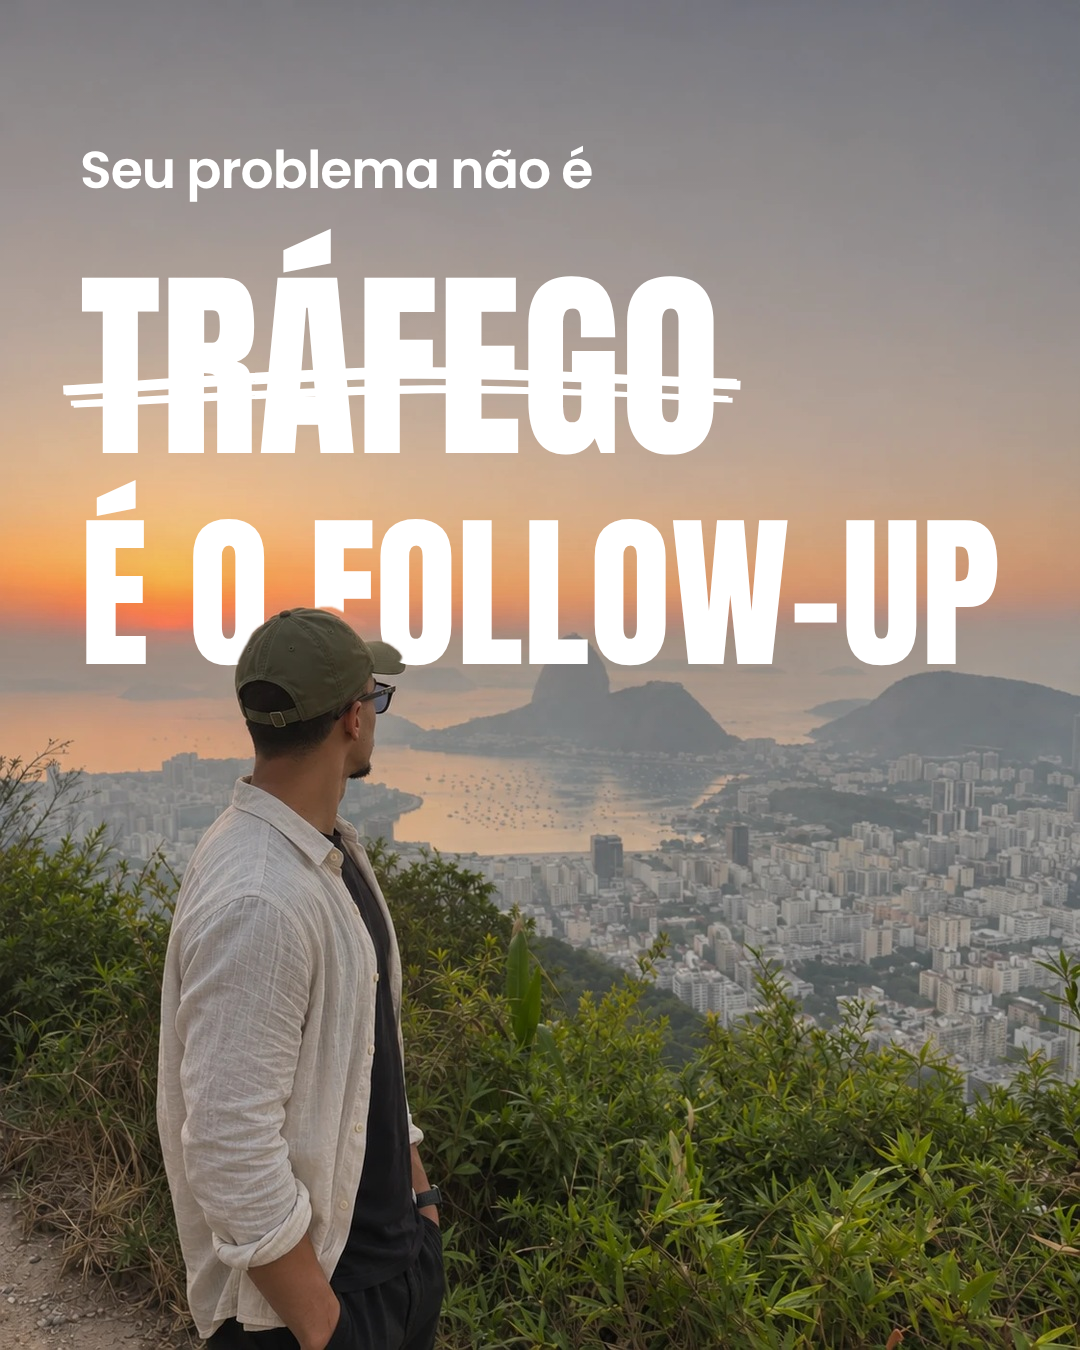
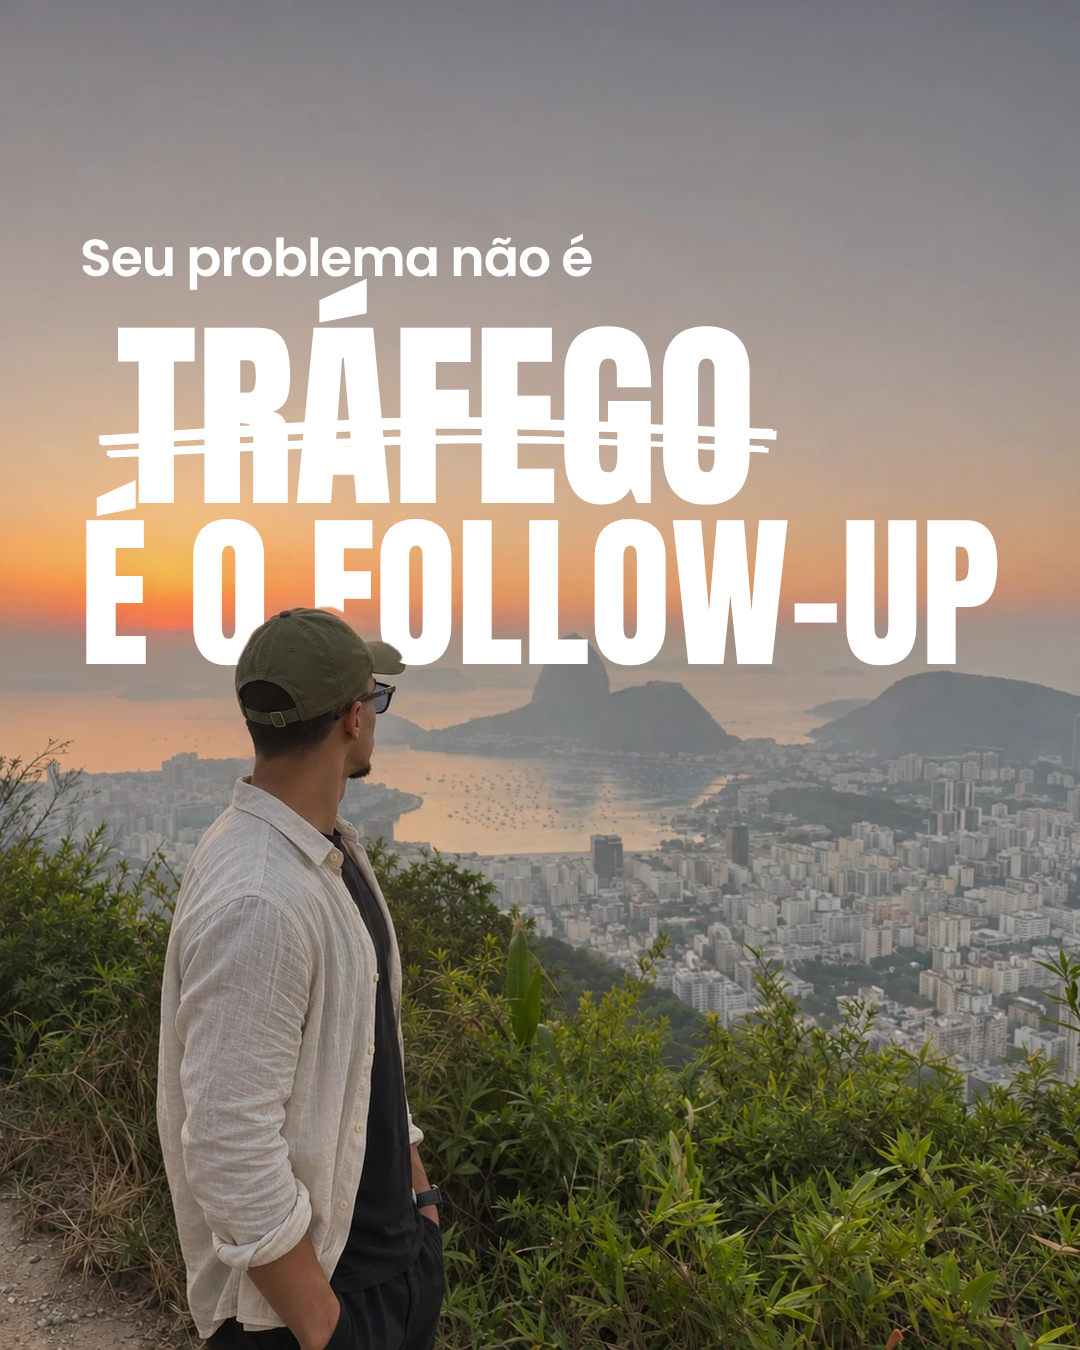
Motor de capa: encaixe das linhas pela forma real das letras (mais junto, sem encostar)
Claude-Session: https://claude.ai/code/session_01CR2zLXebwu2nvAjBiSDjK9

Changed region(s): [[0.0611, 0.0933, 0.7333, 0.3733]]

diff --git a/carrossel/capa-motor.html b/carrossel/capa-motor.html
@@ -19,8 +19,8 @@ html,body{margin:0;background:#000}
    gap = espaço entre a linha e a de baixo. A última linha tem a linha de base em `base`. */
 const LAYOUTS = {
   riscado:   { align:"left",   lines:[
-    {font:"600 52px Poppins", ls:"-.02em", gap:26},
-    {font:"400 230px Anton", fit:640, upper:1, strike:1, gap:24},
+    {font:"600 52px Poppins", ls:"-.02em", gap:16},
+    {font:"400 230px Anton", fit:640, upper:1, strike:1, gap:16},
     {font:"400 300px Anton", fit:920, upper:1} ]},
   padrao:    { align:"center", lines:[
     {font:"500 24px Poppins", ls:".42em", upper:1, gap:30},
@@ -39,9 +39,18 @@ const LAYOUTS = {
 const M = 80; // margem de segurança
 
 function inkW(e){const r=document.createRange();r.selectNodeContents(e);return r.getBoundingClientRect().width}
-function metrics(text, font, stretch){
-  const c=document.createElement("canvas").getContext("2d"); c.font=(stretch?`${stretch==="62%"?"extra-condensed":"normal"} `:"")+font;
-  const m=c.measureText(text||"H"); return {asc:m.actualBoundingBoxAscent, desc:Math.max(0,m.actualBoundingBoxDescent)};
+function profile(text, font, stretch, ls, left){
+  // para cada coluna x (0..1079): quanto a tinta sobe (asc) e desce (desc) a partir da linha de base
+  const fs=parseFloat(font.match(/([\d.]+)px/)[1]), W=1080, H=Math.ceil(fs*2.4), base=Math.round(fs*1.6);
+  const cv=document.createElement("canvas"); cv.width=W; cv.height=H; const c=cv.getContext("2d");
+  c.font=font; if(stretch) try{ c.fontStretch = stretch==="62%"?"extra-condensed":"normal" }catch(e){}
+  if(ls) try{ c.letterSpacing = (/em$/.test(ls)? parseFloat(ls)*fs+"px" : ls) }catch(e){}
+  c.fillStyle="#000"; c.fillText(text,left,base);
+  const d=c.getImageData(0,0,W,H).data, asc=new Array(W).fill(null), desc=new Array(W).fill(null);
+  for(let x=0;x<W;x++){ for(let y=0;y<H;y++) if(d[(y*W+x)*4+3]>60){ asc[x]=base-y; break }
+    for(let y=H-1;y>=0;y--) if(d[(y*W+x)*4+3]>60){ desc[x]=y-base; break } }
+  const vals=a=>a.filter(v=>v!=null);
+  return {asc, desc, maxAsc:Math.max(0,...vals(asc)), maxDesc:Math.max(0,...vals(desc))};
 }
 
 window.loadCapa = async function(spec){
@@ -67,25 +76,46 @@ window.loadCapa = async function(spec){
   await document.fonts.ready; await new Promise(r=>setTimeout(r,250));
   // ajusta larguras
   els.forEach(({d,cfg})=>{ if(cfg.fit){ const fs=parseFloat(getComputedStyle(d).fontSize); d.style.fontSize=fs*cfg.fit/inkW(d)+"px" } });
-  // empilha de baixo para cima a partir da linha de base da última linha
+  // alinhamento horizontal primeiro (o encaixe vertical depende da posição x)
+  els.forEach(({d})=>{ const w=d.getBoundingClientRect().width; d.style.left = align==="center" ? (540-w/2)+"px" : M+"px" });
+  // empilha de baixo para cima: cada linha desce até ficar a `gap` px da linha de baixo no ponto mais próximo (acentos incluídos)
   const placeAt=(d,base)=>{ d.style.top="0px"; const b=d.querySelector(".bl").getBoundingClientRect().top-d.getBoundingClientRect().top; d.style.top=(base-b)+"px" };
   const pos=[]; let below=null;
   for(let i=els.length-1;i>=0;i--){
     const {d,cfg,t}=els[i]; if(cfg.pill) continue;
     const fs=parseFloat(d.style.fontSize||getComputedStyle(d).fontSize);
-    const mt=metrics(t, cfg.font.replace(/\d+px/, fs+"px"), cfg.stretch);
+    const left=d.getBoundingClientRect().left - document.querySelector(".c").getBoundingClientRect().left;
+    const F=cfg.font.replace(/[\d.]+px/, fs+"px");
+    const semAcento=t.normalize("NFD").replace(/[\u0300-\u036f]/g,"");
+    let pr=profile(t,F,cfg.stretch,cfg.ls,left), prB = semAcento===t ? pr : profile(semAcento,F,cfg.stretch,cfg.ls,left);
     let base;
     if(!below) base = spec.base ?? 664;
-    else { const gap = (els[i].cfg.gap ?? 30); base = below.top - gap - mt.desc; }
-    placeAt(d,base); pos[i]={base, top:base-mt.asc, bottom:base+mt.desc};
+    else {
+      const gap=(cfg.gap ?? 14)*(spec.espaco ?? 1), gapA=Math.min(gap,6);
+      const fitBase=(P)=>{ let best=Infinity;
+        for(let x=0;x<1080;x++){ if(P.desc[x]==null) continue;
+          if(below.absTopB[x]!=null) best=Math.min(best, below.absTopB[x]-gap-P.desc[x]);
+          if(below.absTop[x]!=null)  best=Math.min(best, below.absTop[x]-gapA-P.desc[x]); }
+        return best===Infinity ? below.top-gap-P.maxDesc : best };
+      base=fitBase(pr);
+      // encaixe: se um acento da linha de baixo bate na de cima, desloca a de cima até 90px à direita
+      if(align!=="center" && spec.encaixe!==false){
+        let bestDx=0, bestB=base;
+        for(let dx=6; dx<=90; dx+=6){ const P=profile(t,F,cfg.stretch,cfg.ls,left+dx); const b=fitBase(P); if(b>bestB+14){ bestB=b; bestDx=dx } }
+        if(bestDx){ d.style.left=(left+bestDx)+"px"; pr=profile(t,F,cfg.stretch,cfg.ls,left+bestDx); prB = semAcento===t ? pr : profile(semAcento,F,cfg.stretch,cfg.ls,left+bestDx); base=bestB }
+      }
+      if(below.pillGap) base -= below.pillGap;
+    }
+    placeAt(d,base);
+    const absTop=pr.asc.map(v=>v==null?null:base-v), absTopB=prB.asc.map(v=>v==null?null:base-v);
+    pos[i]={base, top:base-pr.maxAsc, bottom:base+pr.maxDesc, absTop, absTopB, pillGap:0};
+    if(i>0 && els[i-1].cfg.pill){ const ph=els[i-1].d.getBoundingClientRect().height; pos[i].pillGap = ph*0.55 }
     below=pos[i];
   }
   // selo: centralizado no vão entre a linha de cima e a de baixo
   els.forEach(({d,cfg},i)=>{ if(!cfg.pill) return;
     const up=pos[i-1], dn=pos[i+1]; const h=d.getBoundingClientRect().height;
     d.style.top=((up.bottom+dn.top)/2-h/2)+"px"; d.style.transform="rotate(-3deg)"; });
-  // alinhamento horizontal
-  els.forEach(({d})=>{ const w=d.getBoundingClientRect().width; d.style.left = align==="center" ? (540-w/2)+"px" : M+"px" });
   // risco à mão
   els.forEach(({d,cfg,t},i)=>{ if(!cfg.strike) return; const r=d.getBoundingClientRect(); const fs=parseFloat(d.style.fontSize);
     const y=pos[i].base-fs*.36, rc=rough.svg(document.getElementById("sv")), sv=document.getElementById("sv");

diff --git a/.claude/skills/carrossel/SKILL.md b/.claude/skills/carrossel/SKILL.md
@@ -22,6 +22,8 @@ Objetivo: máxima qualidade com o mínimo de tokens. **Não leia** `index.html`,
 - Público AAA, minimalista e elegante. Fundo branco na maioria; **1–2 slides** com `"tema":"escuro"` (verde Trives escuro, flat com granulado). Sem neon, sem logo, sem nome no topo, sem rodapé.
 - Fontes: Poppins (texto), Anton/Archivo (capa), Caveat (letra de mão). Margens 128 px laterais / 150 px vertical (automático).
 - Capa: foto colorida, **título grande**, pessoa recortada na frente da última linha, margem 80 px.
+  Linhas encaixam sozinhas pela forma real das letras (acentos incluídos, sem encostar); se um acento bater, a linha de cima desliza até 90 px p/ a direita (`"encaixe": false` desliga).
+  `espaco` (opcional, padrão 1) multiplica o espaço entre as linhas do título: 0.5 = mais junto, 1.5 = mais solto.
   Layouts: `riscado` (3 linhas: pequena · palavra riscada · gigante) · `padrao` (4: pequena espaçada · média · selo · gigante) · `dois-pesos` (3: pequena · fina · pesada) · `serifa` (3: pequena · itálico serifado · condensada).
 - Slide de conteúdo = título + subtítulo (1 linha) + 1 frase curta com `[[círculo]]`/`{{sublinhado}}` + desenho + **Na prática** (`exemplo`, 1–2 linhas, situação real) + **gancho** (1 linha, sem ponto final, abre curiosidade p/ o próximo).
 - Depois de dois-pontos: maiúscula (automático). Último slide sempre `cta` com palavra para comentar.
